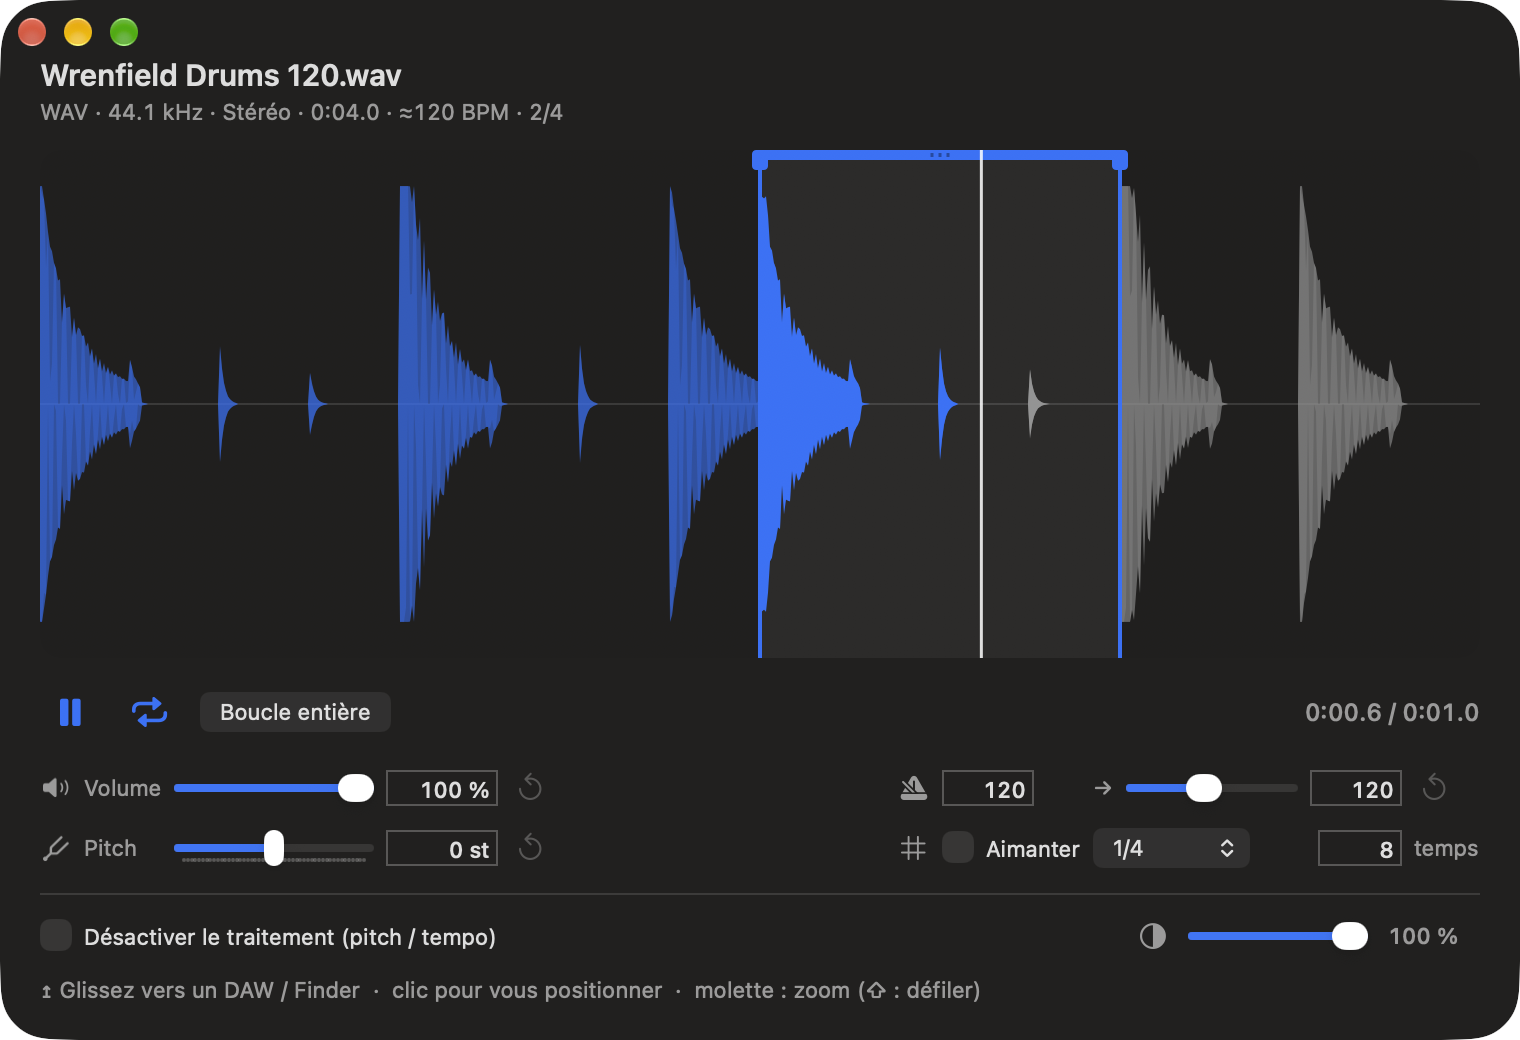
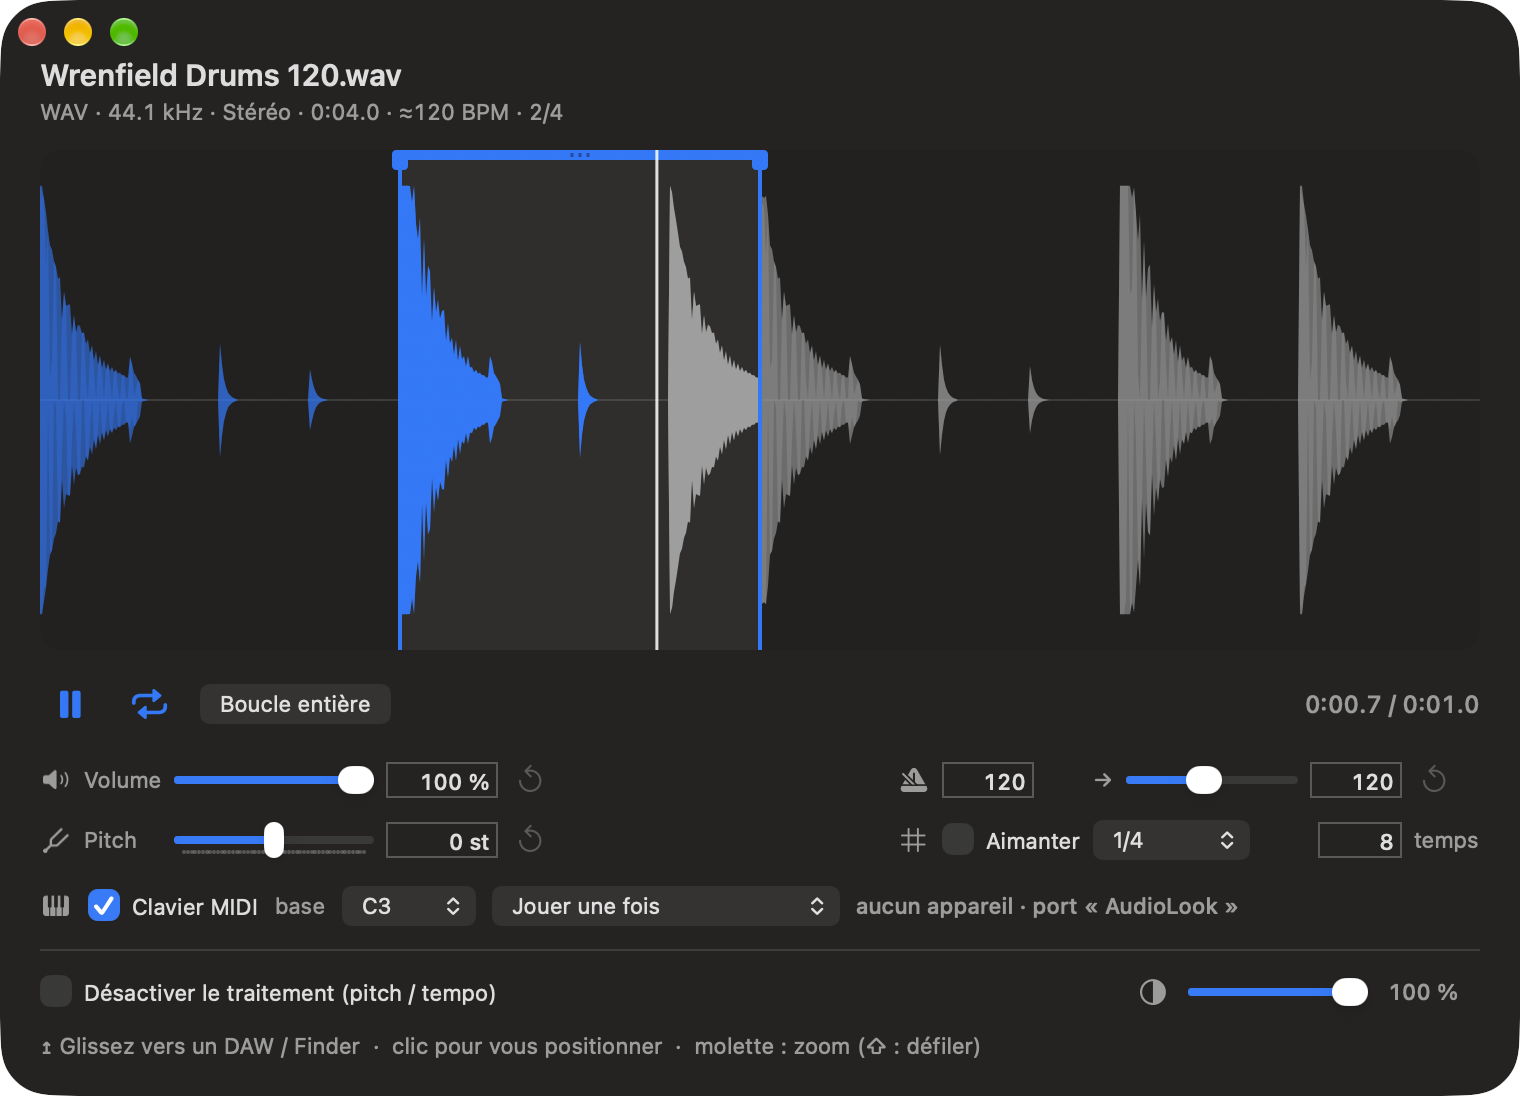
Move the playhead with the note played from MIDI (1.4.1)
While a sampler note sounds, the playhead and the time counter follow the
last note still held through the A/B region, at the speed of the note.
Add a keyboard demo stage and retake the screenshots with the MIDI
keyboard row.

diff --git a/Src/DemoData.swift b/Src/DemoData.swift
@@ -6,12 +6,15 @@ import Foundation
 /// pas sur lecture.
 ///   -demoStage midi          ouvre le fichier MIDI plutôt que la boucle audio
 ///   -demoStage update        montre la fenêtre de mise à jour (vérification réelle, sans installation)
+///   -demoStage keyboard      tient une note sur le sampler, comme jouée au clavier MIDI
+///                            (`-demoNote 67` choisit la note, 60 = note de base par défaut)
 ///   -demoLoopA 0.25 -demoLoopB 0.5   pose la région de boucle A/B (fractions de la durée)
 ///   -demoTargetBPM 140       règle le tempo cible
 ///   -demoTranspose 3         transpose de n demi-tons
 enum DemoData {
     static var isEnabled: Bool { UserDefaults.standard.bool(forKey: "demoData") }
     static var wantsMidi: Bool { UserDefaults.standard.string(forKey: "demoStage") == "midi" }
+    static var wantsKeyboard: Bool { UserDefaults.standard.string(forKey: "demoStage") == "keyboard" }
     /// `-demoStage update` : interroge réellement GitHub pour montrer la fenêtre de mise à jour,
     /// sans jamais rien télécharger ni installer.
     static var wantsUpdateCheck: Bool { UserDefaults.standard.string(forKey: "demoStage") == "update" }

diff --git a/Src/PlayerViewController.swift b/Src/PlayerViewController.swift
@@ -320,7 +320,19 @@ final class PlayerViewController: NSViewController, NSWindowDelegate {
                 self.pitchSlider.doubleValue = semis; self.pitchChanged()
             }
             self.refresh()
+            // -demoStage keyboard : une note tenue, comme jouée au clavier (après la pose de la région A/B)
+            if DemoData.wantsKeyboard && !self.isMidi {
+                DispatchQueue.main.asyncAfter(deadline: .now() + 0.5) { [weak self] in self?.demoPlayNote() }
+            }
         }
+    }
+
+    /// Mode démonstration : joue et tient une note sur le sampler, sans appareil MIDI (et sans son).
+    private func demoPlayNote() {
+        updateSamplerArming()
+        let e = MidiEvent.noteOn(UInt8(max(0, min(127, DemoData.number("demoNote") ?? 60))), 100)
+        midiEventReceived(e, started: player.sampler.handle(e))
+        midiNoteClear?.cancel()          // le nom de la note reste affiché pour la capture
     }
 
     private func navigate(_ d: Int) { guard !siblings.isEmpty else { return }; index = (index + d + siblings.count) % siblings.count; load(siblings[index]) }

diff --git a/Tests/main.swift b/Tests/main.swift
@@ -70,7 +70,21 @@ sampler.handle(.noteOff(60))
 _ = render(0.03)
 check(rms(render(0.1)) < 1e-4, "relâcher la touche coupe le son")
 
+// --- tête de lecture : suit la note tenue, à la vitesse de la note
+check(sampler.playheadFrame == nil, "tête de lecture : aucune quand rien ne sonne")
+sampler.handle(.noteOn(60, 127))
+_ = render(0.25)
+var head = (sampler.playheadFrame ?? -1) / 44_100
+check(near(head, 0.25, 0.05), "tête de lecture : 0,25 s après 0,25 s à la note de base (mesuré \(head))")
+sampler.handle(.noteOff(60)); _ = render(0.05)
+check(sampler.playheadFrame == nil, "tête de lecture : disparaît au relâchement")
+
 // --- une octave au-dessus : deux fois plus aigu et deux fois plus court
+sampler.handle(.noteOn(72, 127))
+_ = render(0.2)
+head = (sampler.playheadFrame ?? -1) / 44_100
+check(near(head, 0.4, 0.05), "tête de lecture : deux fois plus vite à l'octave (mesuré \(head))")
+sampler.handle(.noteOff(72)); _ = render(0.05)
 sampler.handle(.noteOn(72, 127))
 a = render(0.4)
 check(near(freq(a), 880), "C4 → 880 Hz (mesuré \(Int(freq(a))) Hz)")

diff --git a/Src/LoopPlayer.swift b/Src/LoopPlayer.swift
@@ -134,8 +134,13 @@ final class LoopPlayer: PlaybackEngine {
         let posFromA = (offsetInSub + played) % max(1, subLen)
         return Double(bufferStartFrame + posFromA) / Double(processedLength)
     }
-    var progress: Double { currentGlobal }
-    var currentTime: TimeInterval { max(0, currentGlobal - loopA) * duration }
+    /// Position affichée : tant qu'une note MIDI sonne, la tête de lecture suit cette note
+    /// (la dernière jouée) dans la région A/B ; sinon elle suit la lecture normale.
+    var progress: Double {
+        guard processedLength > 0, let f = sampler.playheadFrame else { return currentGlobal }
+        return min(loopB, loopA + f / Double(processedLength))
+    }
+    var currentTime: TimeInterval { max(0, progress - loopA) * duration }
 
     // MARK: Transport (avec fondus)
 

diff --git a/Src/SamplerVoices.swift b/Src/SamplerVoices.swift
@@ -66,6 +66,17 @@ final class SamplerVoices: @unchecked Sendable {
     }
 
     func allNotesOff() { core.withState { $0.releaseAll() } }
+
+    /// Position de lecture (en frames dans la zone) de la dernière note encore tenue,
+    /// pour faire suivre la tête de lecture à l'écran. `nil` si aucune note ne sonne.
+    var playheadFrame: Double? {
+        core.withState { s in
+            var best: SamplerVoice?
+            for v in s.voices where v.active && !v.releasing && v.age > (best?.age ?? 0) { best = v }
+            guard let v = best, let z = v.loop ? s.loopZone : s.oneShot else { return nil }
+            return min(max(0, v.pos), Double(z.length - 1))
+        }
+    }
 }
 
 // MARK: - Zone (mémoire stable lue par le thread audio)

diff --git a/README.md b/README.md
@@ -7,8 +7,7 @@ Made to audition and prepare samples before dragging them into a DAW.
 The interface follows the system language (English, or French on a French macOS).
 See the [changelog](CHANGELOG.md) for what's new.
 
-![AudioLook — main window](docs/screenshot-main.jpg)
-![AudioLook — A/B loop region](docs/screenshot-loop-ab.jpg)
+![AudioLook — a loop with its waveform and playhead](docs/screenshot-waveform.png)
 
 ### Support the project
 Free and open-source 🙂 — if you feel like it, buy me a few tokens:
@@ -28,8 +27,8 @@ Free and open-source 🙂 — if you feel like it, buy me a few tokens:
 - **Tempo (BPM)**: automatic detection + match to a target BPM (pitch unchanged).
   Source BPM is editable, or enter the number of beats.
 - **Transposition** −24…+24 semitones (tempo unchanged).
-- **MIDI keyboard**: play the A/B region as a sampler, from a MIDI keyboard or from a DAW track
-  (see below).
+- **MIDI keyboard**: play the A/B region as a sampler, from a MIDI keyboard or from a DAW track;
+  the playhead follows the note you play (see below).
 - **Magnetic grid** (1/16, 1/8, 1/4, bar) derived from the BPM.
 - **Attack preserved** at the loop start (no fade over the first transient — the kick stays punchy).
 - **Volume**, adjustable window **transparency**, values editable from the keyboard.
@@ -43,8 +42,6 @@ Free and open-source 🙂 — if you feel like it, buy me a few tokens:
   each sample's own detected BPM.
 
 ### In pictures
-
-![AudioLook — a loop with its waveform and playhead](docs/screenshot-waveform.png)
 
 ![AudioLook — an A/B region dragged over one bar of the loop](docs/screenshot-loop.png)
 
@@ -97,6 +94,8 @@ Tick **MIDI keyboard** (on by default) and play: AudioLook works as a classic **
 and tempo. Each semitone above or below plays it faster or slower, so pitch and length change
 together, like on an MPC.
 
+![AudioLook — a held C3 looping the A/B region, the playhead following the note](docs/screenshot-keyboard.png)
+
 - **Play once**: the region plays to its end at most. **Loop A/B while held**: the region loops
   for as long as the key is held. In both modes, **releasing the key stops the sound**.
 - Up to 16 notes at once, **velocity** sets the level, **pitch bend** ±2 semitones, and the
@@ -104,6 +103,9 @@ together, like on an MPC.
 - Every connected MIDI keyboard or controller is used. AudioLook also shows up as a MIDI port
   called **“AudioLook”**: pick it as the MIDI output of a track in Logic (or any DAW) to play the
   sample from that track.
+- The **playhead follows the note**: while a note sounds, the playhead and the time counter track
+  it through the A/B region at the speed of the note (twice as fast an octave up). With several
+  notes held it follows the last one played, then goes back to the transport position.
 - Playing a note stops the loop playback. Only audio files are played this way (not `.mid` files).
 
 ## Export to a DAW
@@ -136,7 +138,7 @@ To build the DMG: `./makedmg.command` (produces `AudioLook.dmg`).
 
 `NOINSTALL=1 ./build.sh` builds and signs the app without installing or launching it.
 
-Launched with `-demoData YES`, the app opens synthesized loops instead of following the Finder selection, and stays silent: this is how the screenshots above are made. `-demoStage midi` opens the MIDI file, `-demoStage update` shows the update window without installing anything (add `-demoAllowInstall YES` on a test copy to run the whole update unattended), `-demoLoopA 0.25 -demoLoopB 0.5` sets the A/B region, `-demoTargetBPM 140` the target tempo and `-demoTranspose 3` the transposition.
+Launched with `-demoData YES`, the app opens synthesized loops instead of following the Finder selection, and stays silent: this is how the screenshots above are made. `-demoStage midi` opens the MIDI file, `-demoStage keyboard` holds a note on the sampler as if played from a MIDI keyboard (`-demoNote 67` picks the note), `-demoStage update` shows the update window without installing anything (add `-demoAllowInstall YES` on a test copy to run the whole update unattended), `-demoLoopA 0.25 -demoLoopB 0.5` sets the A/B region, `-demoTargetBPM 140` the target tempo and `-demoTranspose 3` the transposition.
 
 ## Architecture
 

diff --git a/CHANGELOG.md b/CHANGELOG.md
@@ -2,6 +2,12 @@
 
 All notable changes to **AudioLook**.
 
+## 1.4.1 — 2026-11-25
+- **The playhead follows the note you play.** While a MIDI note sounds, the playhead and the time
+  counter track that note through the A/B region, at the speed of the note (twice as fast an
+  octave up). With several notes held it follows the last one played; when the notes stop it goes
+  back to the transport position.
+
 ## 1.4.0 — 2026-11-25
 - **Play the sample from a MIDI keyboard.** AudioLook works as a classic sampler: the **root
   note** (C3 by default) plays the A/B region as you hear it, and the other notes play it higher
